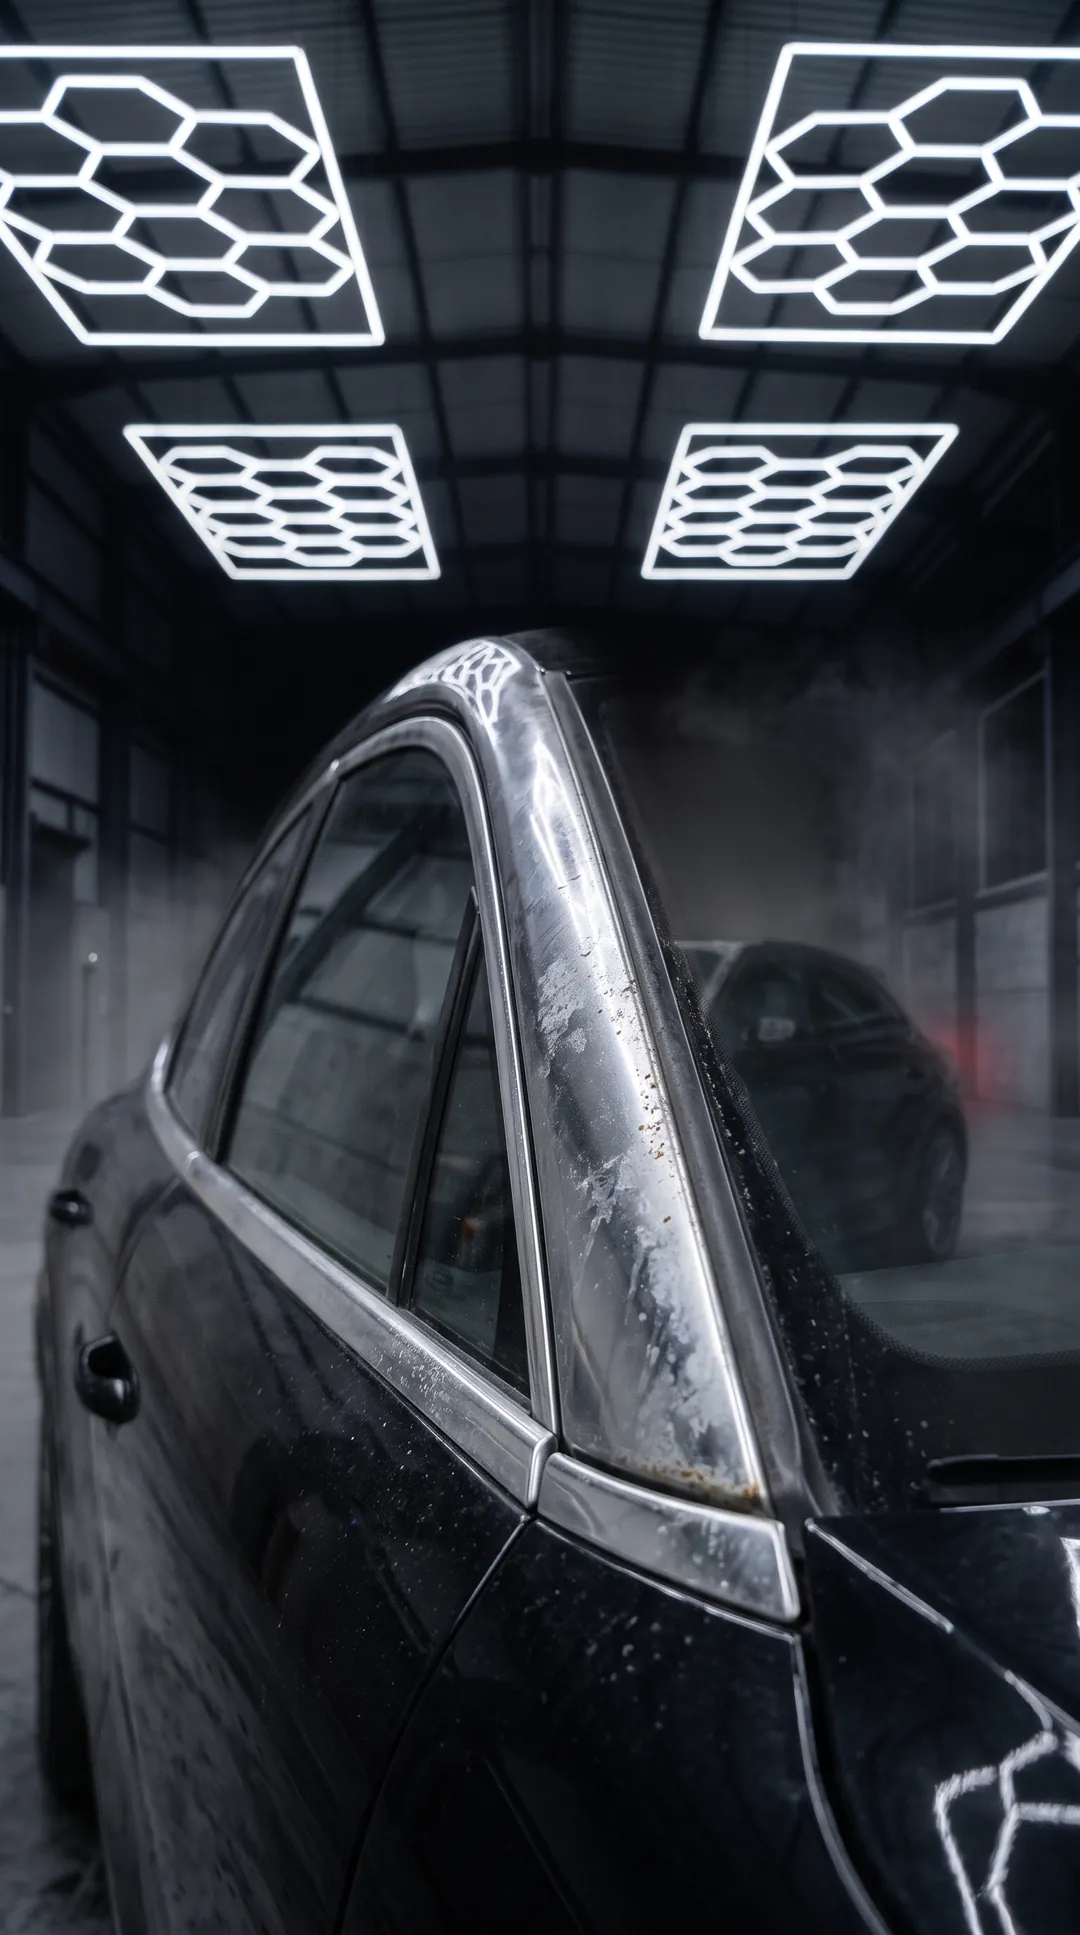
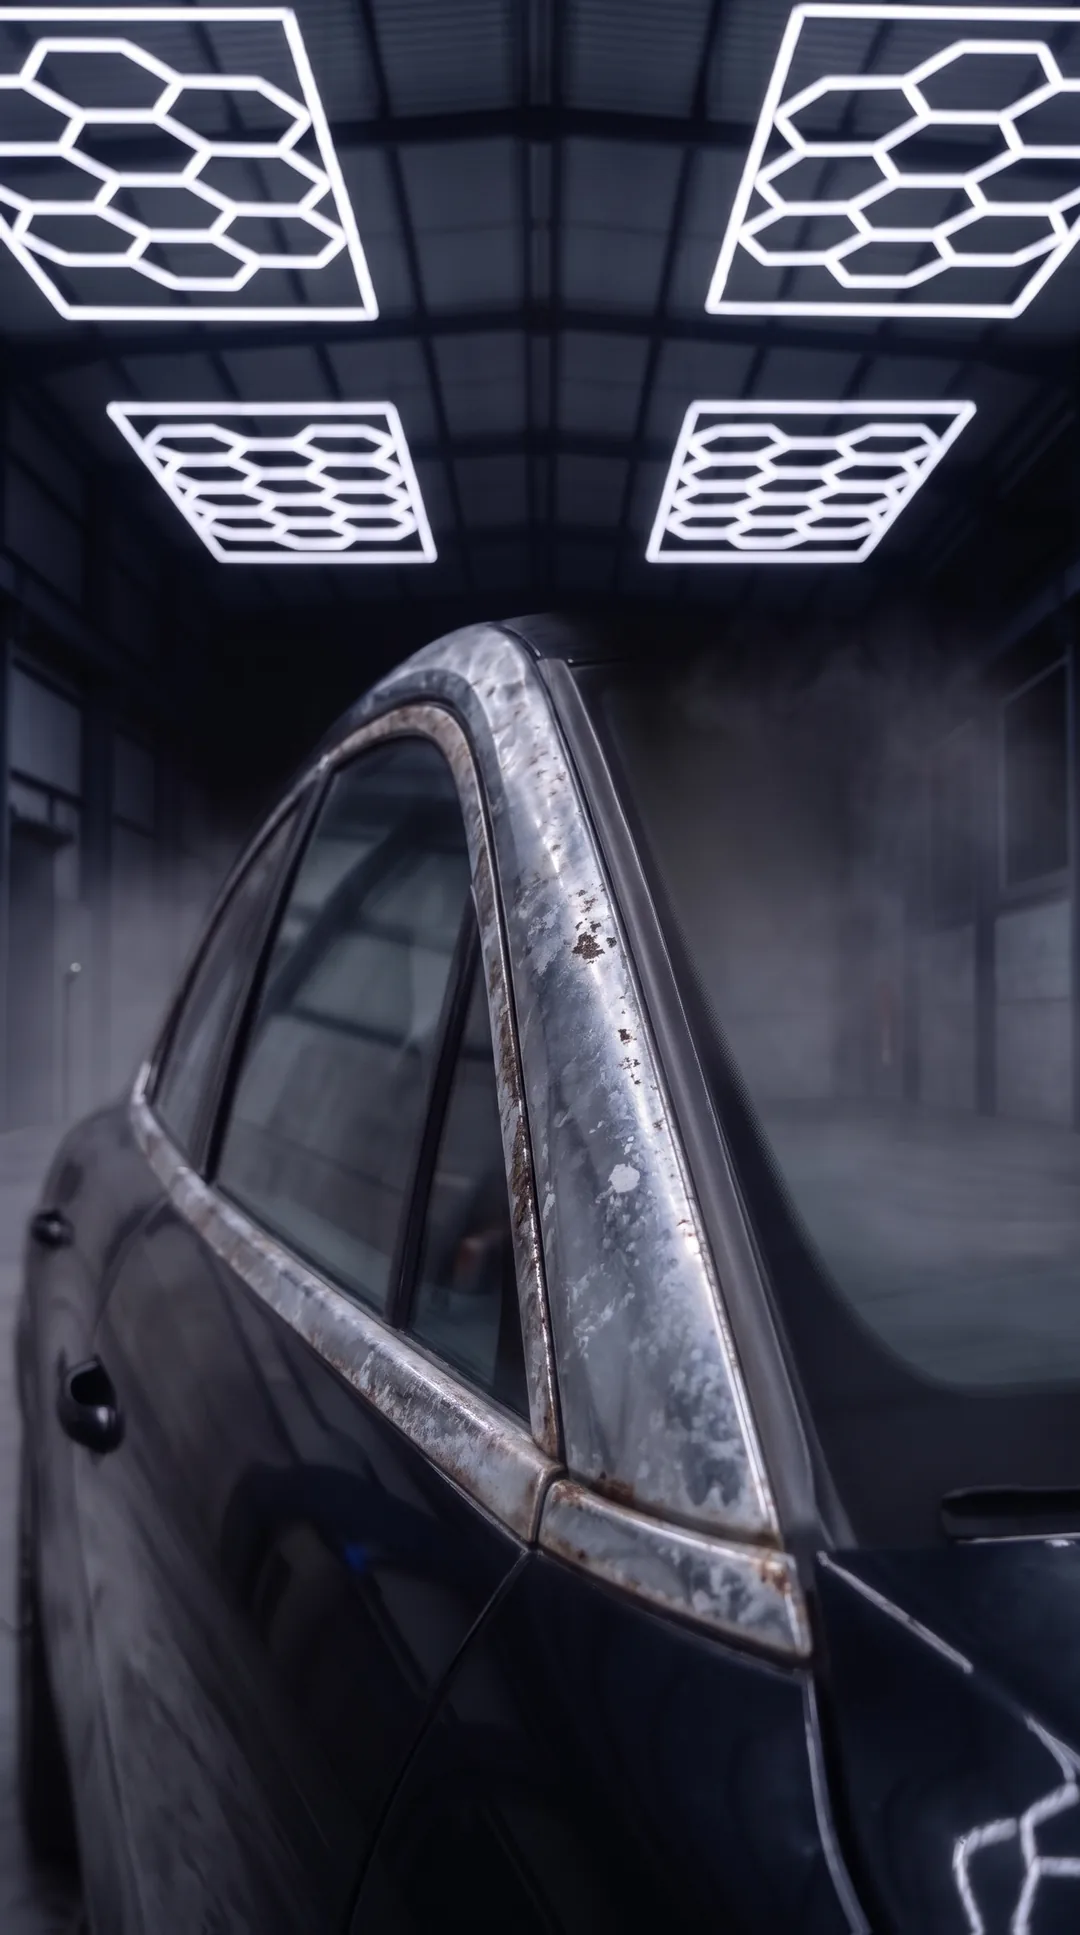
Fotos revisadas: techo y coche completos en cuero, coating y plateados; cinturones, neumáticos, pasos de rueda y negro piano (ahora exterior) rehechos; limpieza básico y premium más limpias

diff --git a/index.html b/index.html
@@ -375,7 +375,9 @@ h1 { font-family: var(--display); text-transform: none; font-weight: 600; font-s
 
 <script>
 (() => {
-  const img = n => `img/${n}.webp`;
+  // IMGV: súbelo cada vez que cambien fotos con el mismo nombre, para que el navegador no enseñe las viejas de su caché
+  const IMGV = 2;
+  const img = n => `img/${n}.webp?v=${IMGV}`;
   const W = 'https://wa.me/34643182964?text=';
   const SUCIO = '01-intro_porsche_sucio', LIMPIO = '00-base_porsche_limpio';
   // Fotos antiguas del taller, para las secciones que aún no se han rehecho en el estilo oscuro
@@ -416,8 +418,7 @@ h1 { font-family: var(--display); text-transform: none; font-weight: 600; font-s
     ['ruedas', 'pasos-de-rueda', 'Pasos de rueda', 'Pasos de rueda', 'Barro incrustado fuera, *pasos limpios*.'],
     ['carroceria', 'hidratacion-gomas', 'Hidratación de gomas', 'Gomas', 'Juntas resecas que vuelven a estar *negras y flexibles*.'],
     ['carroceria', 'plateados', 'Plateados', 'Plateados', 'Molduras sin oxidación ni cal, con *brillo de espejo*.'],
-    // Negro piano: de momento con las fotos de la consola; pasará a carrocería (pilares y molduras) cuando estén sus fotos
-    ['interior', 'negro-piano', 'Negro piano', 'Negro piano', 'Pulimos los *micro-arañazos* y las huellas del *negro piano*.'],
+    ['carroceria', 'negro-piano', 'Negro piano', 'Negro piano', 'Pilares y molduras sin *hologramas* ni micro-arañazos: *negro espejo*.'],
     ['carroceria', 'cera-rapida', 'Cera rápida', 'Cera', 'Brillo húmedo y *reflejos nítidos* en minutos.', { slider: true }],
     // No se contratan: si el coche llega así, Top Detail avisa al cliente antes de empezar (más tiempo y suplemento)
     ['interior', 'suciedad-extrema', 'Suciedad extrema', 'Obra', 'Si el coche llega con polvo de obra, yeso o barro, *te avisamos antes*: lleva más tiempo y un suplemento.', { sup: true }],
